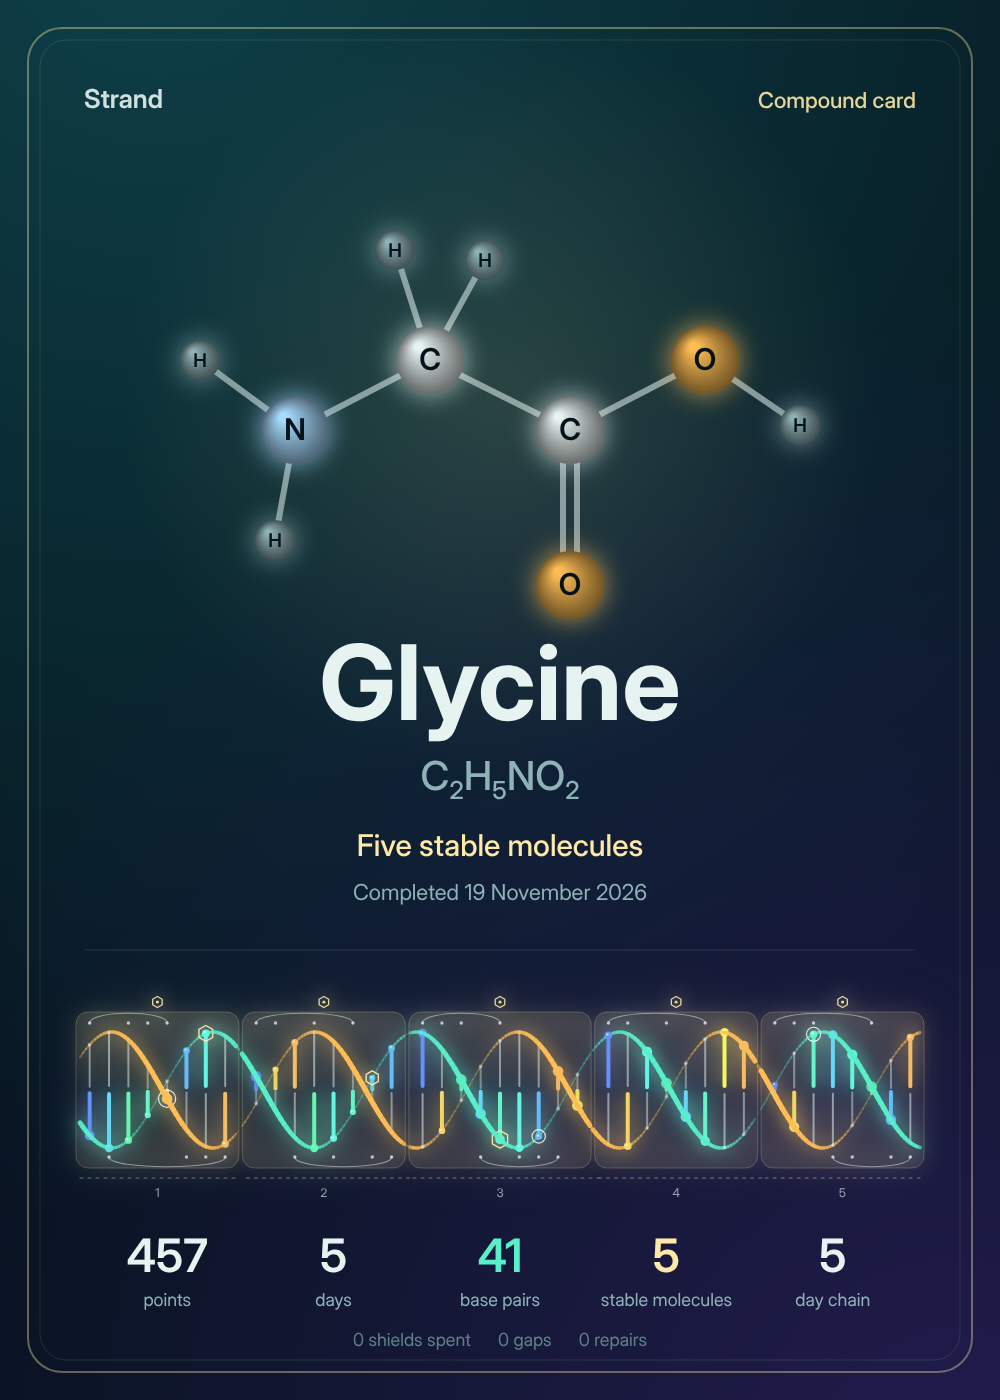
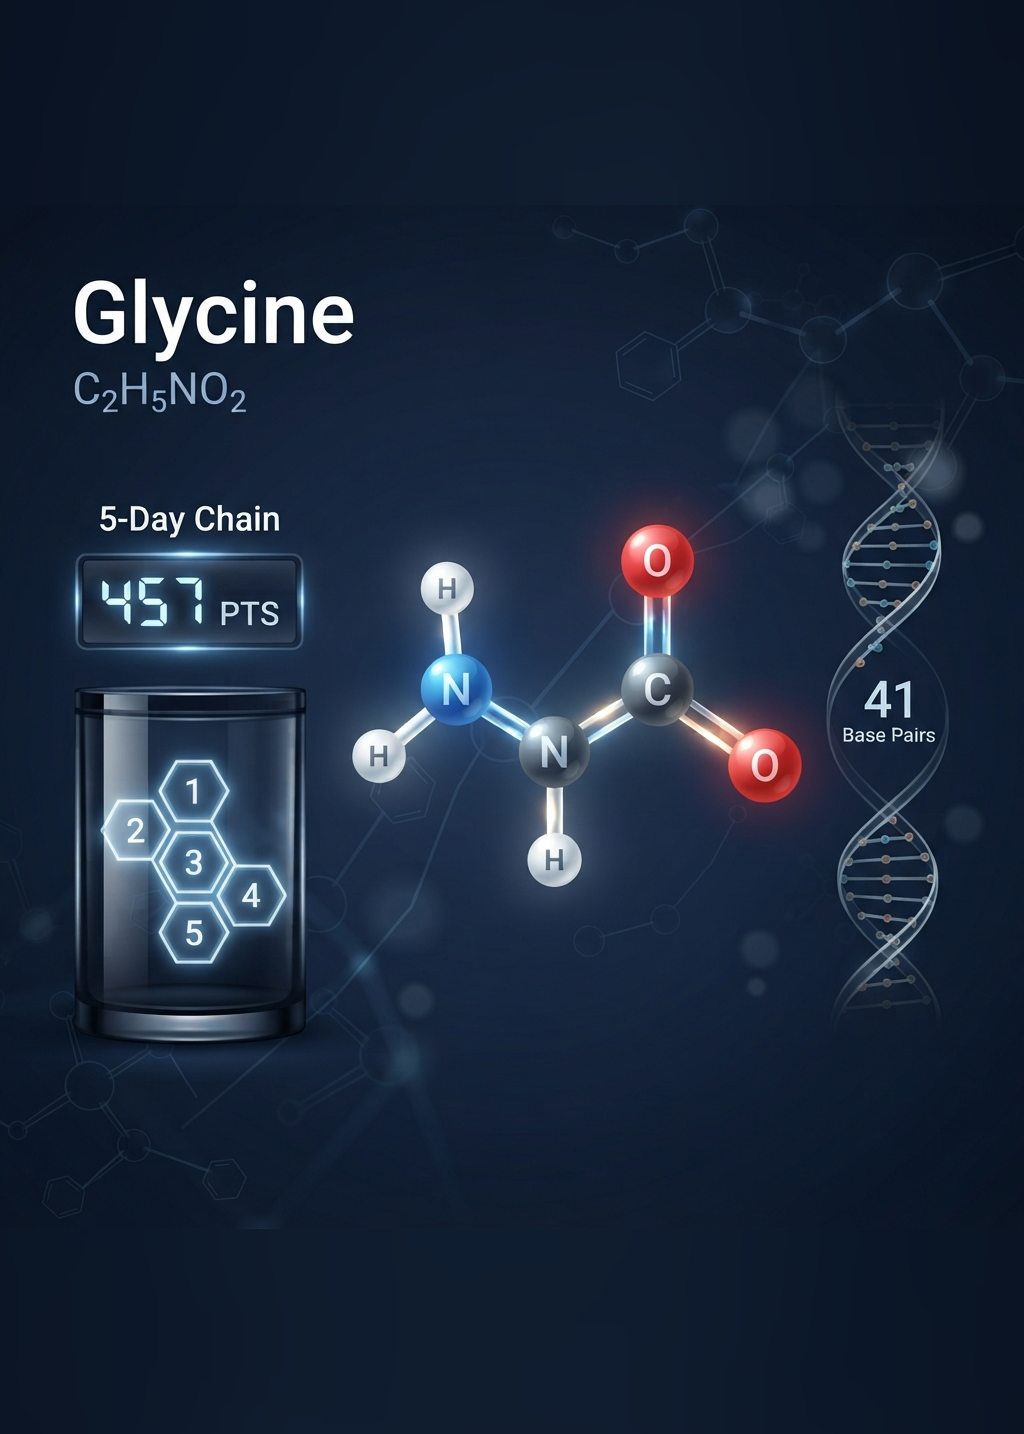
Glycine card: use the owner's image
Claude-Session: https://claude.ai/code/session_01QWyx2G8woCDGKph5ZCSRWC

diff --git a/HANDOFF.md b/HANDOFF.md
@@ -28,6 +28,8 @@ Newest entry first. Each session adds one entry: what changed, why, what is unte
 
 **Changed:** new card renderer, `video/card.html` + `video/make_card.py` (Playwright + Chrome, same as the film). It draws a 1000×1400 PNG for the 5:7 vault slot: a ball-and-stick drawing of the compound, name, formula with subscripts, the milestone note and date, the strand exactly as in the request (`helix.js`, all days, labels on, no motes), and the request's stats. Rendered Glycine from the owner's real request (reached 2026-11-19: 5 days, 41 base pairs, 5 stable molecules, 457 points, no gaps, shields or repairs). The request JSON itself was not committed (real data).
 
+**Replaced the same day** at the owner's request with his own image (square, 1024 px), padded top and bottom to 1024×1434 so the 5:7 slot's cover crop keeps the sides. The rendered version is in git history (commit 42b0253). The renderer stays for future cards.
+
 **Tested:** rendered with no page errors; checked by eye. **Untested:** the card in the vault slot on the iPhone. Other compounds' formulas are words for Ligase, Histone and Telomerase ("repair enzyme" etc.); `card.html` only has the Glycine molecule drawing, so the next card needs its own molecule (or a fallback) before rendering.
 
 ## 2026-11-16: Spending page inside Strand, synced and archived (v1.6, spending.html)
